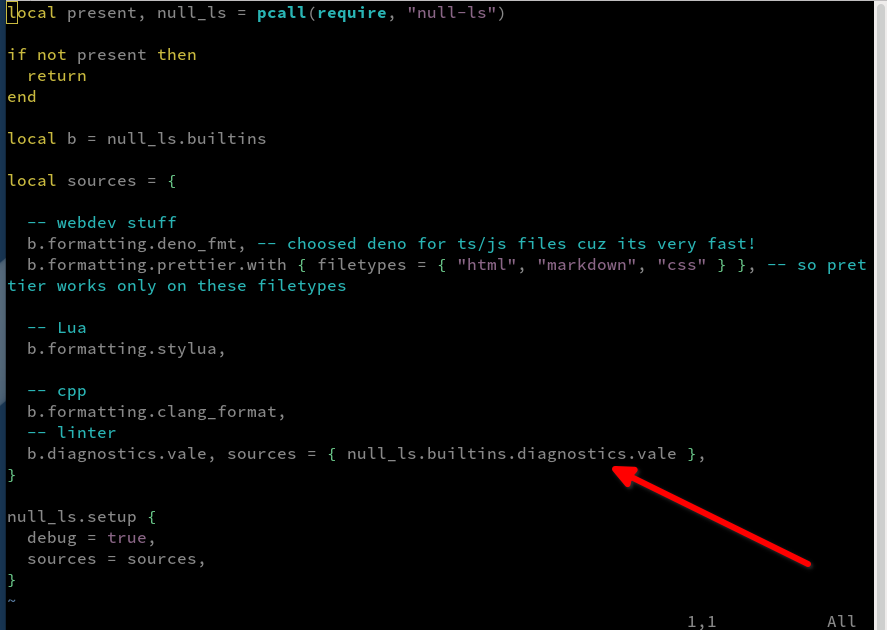
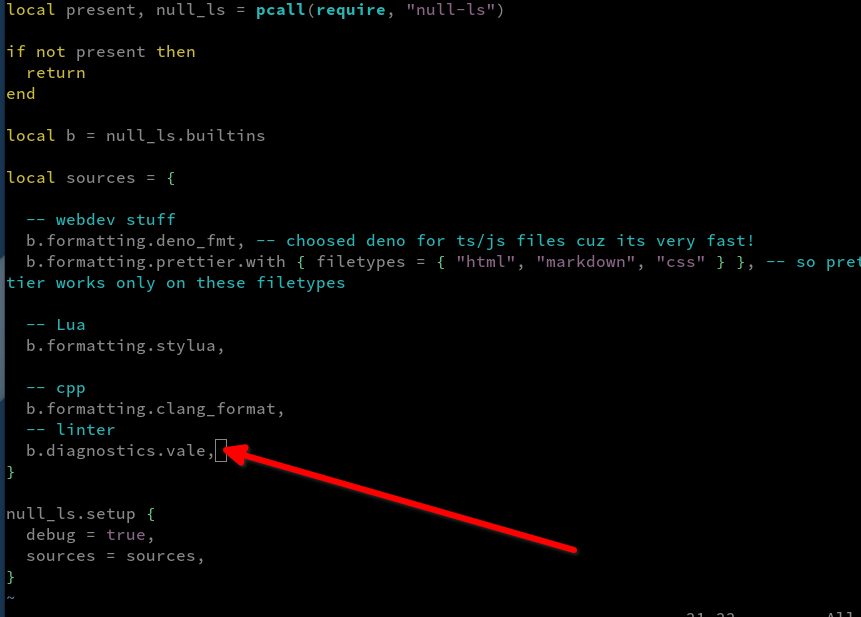
# changes based on suggestions * add option to install from home folder * add option to hide "styles" folder in admonition tip * fix `null-ls` extra characters that were not needed * update contributions section to include contributors

diff --git a/docs/books/nvchad/vale_nvchad.md b/docs/books/nvchad/vale_nvchad.md
@@ -30,13 +30,27 @@ Rather than looking at the entire list of packages, let us use menu item 4 to li
 
 ## Configuring and initializing `vale`
 
-Just having `vale` installed isn't enough. You need a couple of additional things. First, you need a `.vale.ini` file that will live in your home directory eventually, but will be in the `~/.local/share/nvim/mason/packages/vale/` directory to start. The reason for putting this here first is that running the command that will create the styles directory will be easier if you can be in the same directory as the binary, rather than having to call the binary from the that long path in your home directory root. Creating this file is really easy if you use the configuration utility from [the `vale.sh` website](https://vale.sh/generator). Here, choose "Red Hat Documentation Style Guide" for the base style and "alex" for the supplementary style. Using 'alex' is optional, but helps you catch and fix gendered, polarizing, or race-related words, etc., which is important. If you choose those options, your screen should look like this:
+There are two methods you can use to configure `vale`. You can pick your favorite from the two options below. One will have you create the configuration files from within the path of the `vale` binary, then move them to your home folder, and the other will have you create the configuration files directly in your home folder. They work equally well. The second option has fewer manual steps, but requires the long path to the `vale` binary.
+
+!!! tip
+
+    If you want to hide your "styles" folder (below), modify the contents of the `.vale.ini` slightly during creation by changing the "StylesPath" option from "styles" to something hidden such as ".styles" or ".vale_styles." Example:
+
+    ```
+    StylesPath = .vale_styles
+    ```
+
+Just having `vale` installed is not enough. You need a couple of additional items. First, you need a `.vale.ini` file that will live in the root of your home folder. Next, you will need to generate the "styles" directory using `vale sync`.
+
+### Installing from within the path of the `vale` Binary
+
+If you are in the path of the `vale` binary here: `~/.local/share/nvim/mason/packages/vale/` you can simply create the `.vale.ini` file here, generate the "styles" directory, and then move both of them to your home root `~/`. Creating the `.vale.ini` file is easy using the configuration utility from [the `vale.sh` website](https://vale.sh/generator). Here, choose "Red Hat Documentation Style Guide" for the base style and "alex" for the supplementary style. Using 'alex' is optional, but helps you catch and fix gendered, polarizing, or race-related words, etc., which is important. If you choose those options, your screen should look like this:
 
 ![vale_ini_nvchad](images/vale_ini_nvchad.png)
 
-Simply copy the contents at the bottom, and create the `.vale.ini` file.
+Simply copy the contents at the bottom, create the `.vale.ini` file with your favorite editor, and paste what you copied in.
 
-You need to create the "styles" folder. This is done by running the `vale` binary with the `sync` command. Again, you are doing this from the `~/.local/share/nvim/mason/packages/vale/` directory, so do:
+You need to create the "styles" folder. Do this by running the `vale` binary with the `sync` command. Again, if you are doing this from the `~/.local/share/nvim/mason/packages/vale/` directory, just do:
 
 ```
 ./vale sync
@@ -53,11 +67,24 @@ cp .vale.ini ~/
 cp -rf styles ~/
 ```
 
+### Installing from your home directory
+
 If you prefer not to have to copy the files and just want to create them in your home directory, you can use this command from `~/`:
+
+First, create the `.vale.ini` in your home folder using [the `vale.sh` website](https://vale.sh/generator). Again, choose "Red Hat Documentation Style Guide" for your base style and "alex" for the supplementary style. Then copy the contents into the `.vale.ini` file.
+
+![vale_ini_nvchad](images/vale_ini_nvchad.png)
+
+Next, run the `vale sync` command. Since you are in your home directory, you will need the entire path to the binary:
 
 ```
 ~/.local/share/nvim/mason/packages/vale/vale sync
 ```
+
+![vale_sync](images/vale_sync.png)
+
+In this case, there is no need to copy the files as they will be created in your home directory root.
+
 
 ## The `null-ls.lua` file changes
 
@@ -66,7 +93,7 @@ There is one final step needed. You need to change the `null-ls.lua` file found 
 If you have no other linters installed, make a section with two dashes (comments) called "linters" then place this code there:
 
 ```
-b.diagnostics.vale, sources = { null_ls.builtins.diagnostics.vale },
+b.diagnostics.vale,
 ```
 
 Your file will look something like this when completed:
